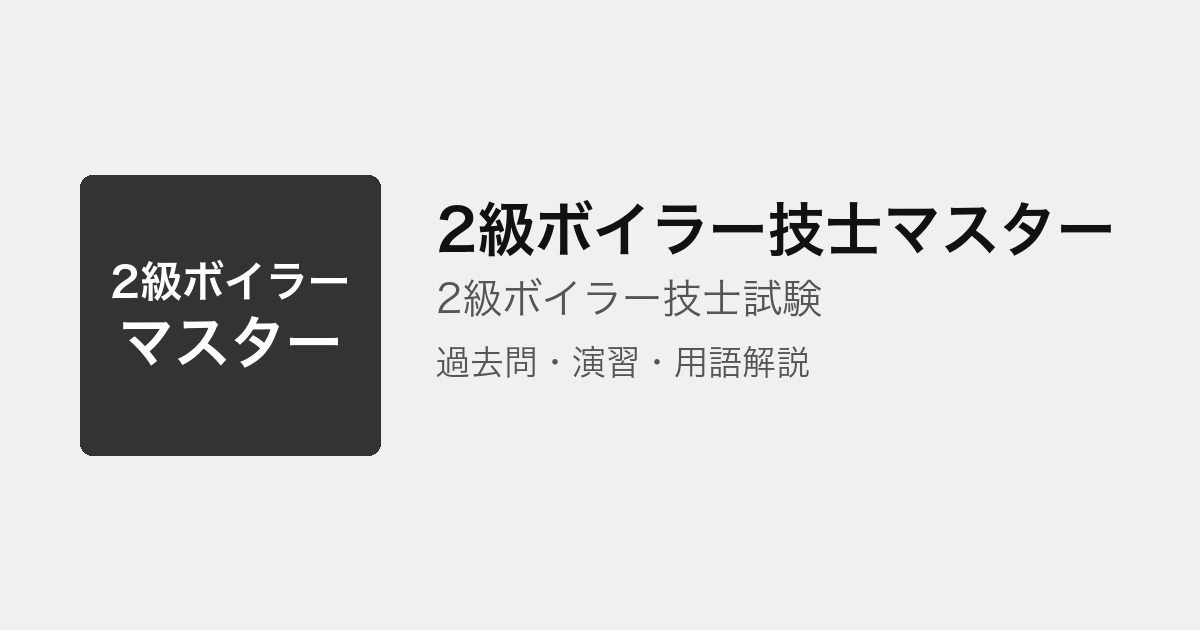
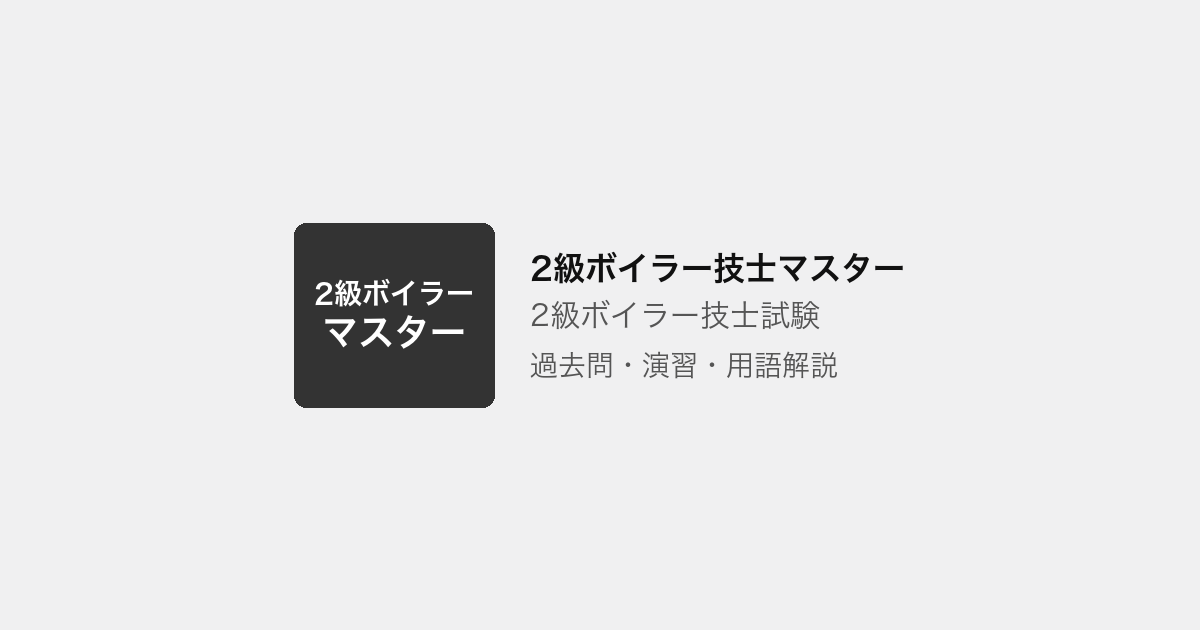
fix: OGP 画像の見切れを修正（中央安全域レイアウト）
SNS プレビューの 1:1 クロップでもロゴが切れないよう再生成した。

Changed region(s): [[0.0617, 0.2714, 0.925, 0.7238]]

diff --git a/tools/brand_assets.py b/tools/brand_assets.py
@@ -20,6 +20,10 @@ from tools.site_config import (
 
 BRAND_DIR = "assets/brand"
 MARKER = "<!--BRAND_ASSET_HEAD-->"
+OG_WIDTH = 1200
+OG_HEIGHT = 630
+# SNS の 1:1 中央クロップ（630×630）でも切れないよう、コンテンツ幅をこの範囲に収める
+OG_SAFE_WIDTH = 620
 
 
 def _font_candidates(*, bold: bool) -> list[Path]:
@@ -172,42 +176,130 @@ def render_favicon(size: int):
 def render_og_image():
     from PIL import Image, ImageDraw
 
-    w, h = 1200, 630
+    w, h = OG_WIDTH, OG_HEIGHT
     top, bottom = brand_logo_lines()
     name = brand_name()
     exam = exam_name()
+    tagline = "過去問・演習・用語解説"
     bg = theme_page_bg()
     ink = theme_ink()
-    text = theme_text()
+    text_col = theme_text()
     muted = theme_text_muted()
+
+    measure = Image.new("RGB", (w, h), bg)
+    mdraw = ImageDraw.Draw(measure)
+
+    gap = 36
+    name_gap, exam_gap = 16, 22
+    layout = None
+    for box_w in (200, 180, 160, 140, 120):
+        box_h = max(110, int(box_w * 0.92))
+        text_max_w = OG_SAFE_WIDTH - box_w - gap
+        name_font, name_size = _fit_font(mdraw, name, text_max_w, 48, bold=True)
+        exam_font, exam_size = _fit_font(mdraw, exam, text_max_w, 30, bold=False)
+        tag_font, tag_size = _fit_font(mdraw, tagline, text_max_w, 28, bold=False)
+        text_w = max(
+            mdraw.textlength(name, font=name_font),
+            mdraw.textlength(exam, font=exam_font),
+            mdraw.textlength(tagline, font=tag_font),
+        )
+        text_h = name_size + name_gap + exam_size + exam_gap + tag_size
+        content_w = box_w + gap + int(text_w)
+        content_h = max(box_h, text_h)
+        if content_w <= OG_SAFE_WIDTH:
+            layout = {
+                "box_w": box_w,
+                "box_h": box_h,
+                "gap": gap,
+                "name_font": name_font,
+                "name_size": name_size,
+                "exam_font": exam_font,
+                "exam_size": exam_size,
+                "tag_font": tag_font,
+                "tag_size": tag_size,
+                "text_h": text_h,
+                "content_w": content_w,
+                "content_h": content_h,
+            }
+            break
 
     img = Image.new("RGB", (w, h), bg)
     draw = ImageDraw.Draw(img)
 
-    box_w, box_h = 300, 280
-    box_x, box_y = 80, (h - box_h) // 2
+    if layout is None:
+        # 横並びが収まらない場合: ロゴ＋テキストを縦積みで中央配置
+        mark_w, mark_h = 220, 200
+        text_max_w = OG_SAFE_WIDTH - 40
+        name_font, name_size = _fit_font(mdraw, name, text_max_w, 44, bold=True)
+        exam_font, exam_size = _fit_font(mdraw, exam, text_max_w, 28, bold=False)
+        tag_font, tag_size = _fit_font(mdraw, tagline, text_max_w, 26, bold=False)
+        stack_gap, line_gap = 28, 14
+        content_w = int(
+            max(
+                mark_w,
+                mdraw.textlength(name, font=name_font),
+                mdraw.textlength(exam, font=exam_font),
+                mdraw.textlength(tagline, font=tag_font),
+            )
+        )
+        content_h = mark_h + stack_gap + name_size + line_gap + exam_size + line_gap + tag_size
+        block_x = (w - content_w) // 2
+        block_y = (h - content_h) // 2
+        _draw_logo_mark(
+            draw,
+            x=block_x + (content_w - mark_w) // 2,
+            y=block_y,
+            width=mark_w,
+            height=mark_h,
+            top=top,
+            bottom=bottom,
+            bg=ink,
+            fg="#ffffff",
+            radius=12,
+        )
+        ty = block_y + mark_h + stack_gap
+        draw.text((block_x + (content_w - mdraw.textlength(name, font=name_font)) / 2, ty), name, fill=text_col, font=name_font)
+        ty += name_size + line_gap
+        draw.text((block_x + (content_w - mdraw.textlength(exam, font=exam_font)) / 2, ty), exam, fill=muted, font=exam_font)
+        ty += exam_size + line_gap
+        draw.text((block_x + (content_w - mdraw.textlength(tagline, font=tag_font)) / 2, ty), tagline, fill=muted, font=tag_font)
+        return img
+
+    block_x = (w - layout["content_w"]) // 2
+    block_y = (h - layout["content_h"]) // 2
+    box_x = block_x
+    box_y = block_y + (layout["content_h"] - layout["box_h"]) // 2
+    tx = block_x + layout["box_w"] + layout["gap"]
+    ty = block_y + (layout["content_h"] - layout["text_h"]) // 2
+
     _draw_logo_mark(
         draw,
         x=box_x,
         y=box_y,
-        width=box_w,
-        height=box_h,
+        width=layout["box_w"],
+        height=layout["box_h"],
         top=top,
         bottom=bottom,
         bg=ink,
         fg="#ffffff",
         radius=12,
     )
-
-    tx = box_x + box_w + 56
-    name_font, name_size = _fit_font(draw, name, w - tx - 80, 64, bold=True)
-    exam_font, exam_size = _fit_font(draw, exam, w - tx - 80, 40, bold=False)
-    tagline = "過去問・演習・用語解説"
-    tag_font, _ = _fit_font(draw, tagline, w - tx - 80, 34, bold=False)
-
-    draw.text((tx, box_y + 24), name, fill=text, font=name_font)
-    draw.text((tx, box_y + 24 + name_size + 20), exam, fill=muted, font=exam_font)
-    draw.text((tx, box_y + 24 + name_size + 20 + exam_size + 28), tagline, fill=muted, font=tag_font)
+    draw.text((tx, ty), name, fill=text_col, font=layout["name_font"])
+    draw.text(
+        (tx, ty + layout["name_size"] + name_gap),
+        exam,
+        fill=muted,
+        font=layout["exam_font"],
+    )
+    draw.text(
+        (
+            tx,
+            ty + layout["name_size"] + name_gap + layout["exam_size"] + exam_gap,
+        ),
+        tagline,
+        fill=muted,
+        font=layout["tag_font"],
+    )
     return img
 
 